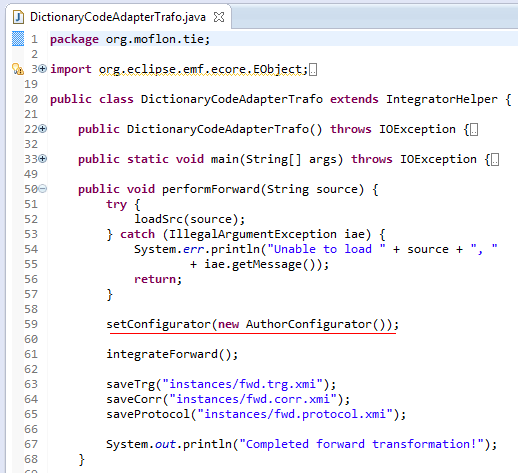
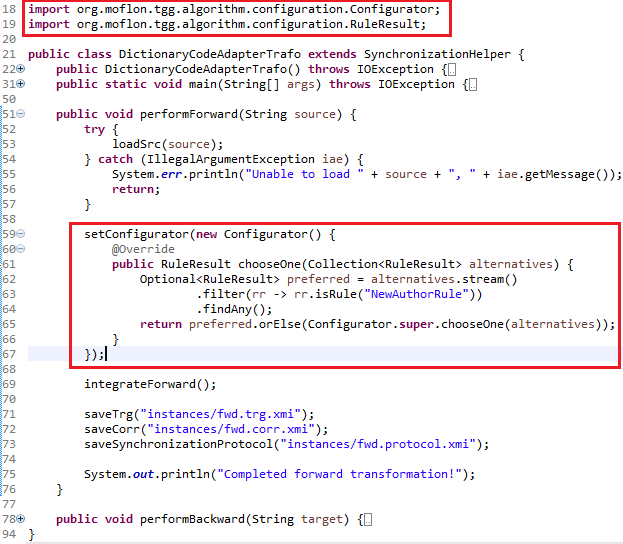
updated part 5

Changed region(s): [[0.0, 0.0, 1.0, 1.0]]

diff --git a/Handbook/org.moflon.doc.handbook.05_modelToTextTransformations/3_treeToModel/treeToModelClose.tex b/Handbook/org.moflon.doc.handbook.05_modelToTextTransformations/3_treeToModel/treeToModelClose.tex
@@ -5,7 +5,7 @@
 
 \begin{itemize}
 
-\item[$\blacktriangleright$] If your project's build succeeded, run the transformation file again and examine the successful forward output, 
+\item[$\blacktriangleright$] If your project's build succeeded, run the transformation\footnote{If you haven't already, read Part IV, Section 6 for details on to run a transformation} again and examine the successful forward output, 
 \texttt{fwd.trg.xmi}, a little closer (Fig.~\ref{eclipse:generatedFwdTrsfm}).
 
 \vspace{0.5cm}
@@ -16,34 +16,20 @@
   \caption{\texttt{Dictionary} result of the forward transformation}
   \label{eclipse:generatedFwdTrsfm}
 \end{center}
-\end{figure}
+\end{figure} 
 
 \vspace{0.5cm}
 
-\item[$\blacktriangleright$] Your output may or may not resemble ours. In fact, there's a 50/50 chance that some of the \texttt{author} nodes are ever created!
-Let's run the integrator on \texttt{fwd.corr.xmi} to find out why.\footnote{If you haven't already, read Part IV, Section 6 for details on how the
-integrator can help you visualise and debug a transformation}
+\item[$\blacktriangleright$] Your output may or may not resemble ours. In fact, there's a 50/50 chance that either a single or two \texttt{contact@pons.de} authors are created!
+At run-time, the transformation has a choice between two rules to apply to a matched \texttt{authorNode}. 
+The resulting choice is entirely random, meaning that your output is likely to be different each time you run the transformation. 
+For a deterministic transformation, you would need to force a preferred decision. 
 
-\vspace{0.5cm}
-
-\item[$\blacktriangleright$] Proceed through the transformation until you reach the first match to an author node (Fig.~\ref{eclipse:fwdIntegrator}). Keep an
-eye on the small window below -- it states that there are two possible rules that apply to the match!
-
-\begin{figure}[htbp]
-\begin{center}
-  \includegraphics[width=0.8\textwidth]{eclipse_integratorAuthorChoice}
-  \caption{The transformation is able to find two possible rules}
-  \label{eclipse:fwdIntegrator}
-\end{center}
-\end{figure}
-
-% \clearpage
-\vspace{0.5cm}
-
-\item[$\blacktriangleright$] At run-time, the transformation is presented with a choice between two rules to apply to the matched \texttt{authorNode}. The
-resulting choice is entirely random, meaning that your output is likely to be different each time you run the transformation. For a deterministic
-transformation, you therefore need to force a preferred decision. There are two ways to do this: (1) at run-time, where users will be able to decide for
-themselves what they would prefer to use, or (2) at design-time, where you make the decision a part of the TGG.
+\noindent There are two ways to do this: 
+\begin{enumerate}
+\item At run-time, allowing users to decide for themselves what they would prefer to use, or 
+\item At design-time, making the decision a part of the TGG specification.
+\end{enumerate}
 
 \vfill
 
@@ -51,40 +37,27 @@ themselves what they would prefer to use, or (2) at design-time, where you make 
 
 \subsubsection{Option 1: Run-time decision}
 
-The advantage with this option is that you give users the choice of what they prefer. Some users don't mind having multiple authors, while others might prefer a
-minimalist design. They can easily change their preference possibly on a case-by-case basis, by implementing a TGG rule configurator.
+The advantage with this option is that you give users the choice of what they prefer. 
+Some users don't mind having multiple authors, while others might prefer a minimalist design. 
+They can easily change their preference possibly on a case-by-case basis, by implementing a TGG rule \emph{configurator}.
 
 \begin{itemize}
 
-\item[$\blacktriangleright$] Navigate to ``DictionaryCodeAdapter/src/org.moflon.tie.'' Right-click this package and create a new java class named
-\texttt{Author\-Config\-ur\-at\-or}, then complete the override as described in Fig.~\ref{eclipse:authorConfig}. Be careful not to make any mistakes --
-Eclipse's auto-completion can help you here.
-
-\begin{figure}[htbp]
-  \includegraphics[width=1.1\textwidth]{eclipse_authorConfiguratorClass}
-  \caption{Setting a preference for \texttt{NewAuthorRule}}
-  \label{eclipse:authorConfig}
-\end{figure}
-
-\item[$\blacktriangleright$] As you can see on Line 21, this simple configurator prefers to create a new author every time there is a choice. Users can
-edit this value to ``ExistingAuthorRule'' to avoid redundant authors.
-
-\item[$\blacktriangleright$] You still need to set the configurator to be used for the transformation. This decision will only arise in the forward direction,
-so declare it once in \texttt{Dict\-ion\-ar\-y\-Code\-Ad\-ap\-ter\-Traf\-o/\-per\-form\-For\-ward} as depicted in Fig.~\ref{eclipse:editTGGMain} (on Line 59).
-
-\newpage
-
-\vspace*{0.5cm}
+\item[$\blacktriangleright$] Implement and set the configurator to be used for the transformation as depicted in Fig.~\ref{eclipse:editTGGMain}.
+Note how the possible alternatives are filtered using an \texttt{isRule} predicate to compare the name of each alternative with the preferred rule \texttt{NewAuthorRule} in this case.
+As this degree of freedom concerning the creation or possible reuse of authors only arises in the forward direction, we do not need a similar configurator for the backward transformation.
 
 \begin{figure}[htbp]
 \begin{center}
-  \includegraphics[width=0.8\textwidth]{eclipse_authorConfiguratorTGGMain}
+  \includegraphics[width=0.9\textwidth]{eclipse_authorConfiguratorTGGMain}
   \caption{Setting the configurator to control the run-time decision}
   \label{eclipse:editTGGMain}
 \end{center}
 \end{figure}
 
 \item[$\blacktriangleright$] Save and run the transformation a few times, using the integrator to confirm your preference is enforced each time.
+You should now \emph{always} get two \texttt{contact@pons.de} authors using this configurator.
+Try to change your preference and see the effect!
 
 \end{itemize}
 
@@ -97,10 +70,6 @@ preference can be enforced using a NAC which checks to see if there is already a
 
 \item[$\blacktriangleright$] Open and update either \texttt{NewAuthorRule} (visual) as shown in Fig.~\ref{ea:existingAuthorNAC} or edit the target domain in 
 Eclipse (textual) as depicted in Fig.~\ref{eclipse:existingAuthorNAC}.
-
-\newpage
-
-\vspace*{0.5cm}
 
 \begin{figure}[htbp]
 \begin{center}

diff --git a/Handbook/org.moflon.doc.handbook.05_modelToTextTransformations/5_treeToText/treeToTextSrc.tex b/Handbook/org.moflon.doc.handbook.05_modelToTextTransformations/5_treeToText/treeToTextSrc.tex
@@ -23,7 +23,7 @@ depicted in Fig.~\ref{eclipse:treeGrammar}.
 \vspace{0.5cm}
 
 \item[$\blacktriangleright$] Next, open \texttt{Dict\-ion\-ary\-Un\-pars\-er\-Ad\-ap\-ter.java} (Fig~\ref{eclipse:unparserCommented}). You'll notice that this
-file contains a (commented) \texttt{StringTemplateGroup} meth\-od for retrieving a group of templates and needs to be implemented. The comments explain how to
+file contains a (commented out) \texttt{StringTemplateGroup} meth\-od for retrieving a group of templates and needs to be implemented. The comments explain how to
 use either a folder containing different template files, or a single file containing all templates. The latter is better for numerous small templates, while the
 former makes sense when the templates contain a lot of static text.
 
@@ -38,7 +38,7 @@ the line throwing an \texttt{Un\-sup\-port\-ed\-Op\-er\-at\-ion\-Ex\-cep\-tion}.
 
 \begin{figure}[htpb]
 \begin{center}
-  \includegraphics[width=0.8\textwidth]{eclipse_dictionaryTreeGrammar}
+  \includegraphics[width=0.83\textwidth]{eclipse_dictionaryTreeGrammar}
   \caption{Tree grammar for the unparser}
   \label{eclipse:treeGrammar}
 \end{center}
@@ -64,7 +64,7 @@ Fig.~\ref{eclipse:dictionaryTemplate}.
 
 \begin{figure}[htpb]
 \begin{center}
-  \includegraphics[width=0.5\textwidth]{eclipse_dictionaryTemplate}
+  \includegraphics[width=0.6\textwidth]{eclipse_dictionaryTemplate}
   \caption{The \texttt{dictionary} template}
   \label{eclipse:dictionaryTemplate}
 \end{center}
@@ -74,13 +74,16 @@ Fig.~\ref{eclipse:dictionaryTemplate}.
 transformation's input file.
 
 \item[$\blacktriangleright$] Save and run your transformation again -- there should no longer be an error message in the console. Inspect and compare your input
-and output folders and their containing files (Fig.~\ref{eclipse:unparseResult}). Are they the same?
+and output folders and their containing files (Fig.~\ref{eclipse:unparseResult}). 
+Are they the same?  As we abstracted from some aspects such as sorting all entries in the transformation, the generated files are probably not absolutely identical.
+If this is required (we assume for the example that it is not) then the generated tree can either be \emph{normalized} as required before generating text, or the additional aspect of order can be modelled explicitly in the transformation (using indices in the tree and \texttt{next} edges in the model).  
 
-\vspace{0.5cm}
+
+\clearpage
 
 \begin{figure}[htpb]
 \begin{center}
-  \includegraphics[width=0.4\textwidth]{eclipse_finalInstancesHierarchy}
+  \includegraphics[width=0.5\textwidth]{eclipse_finalInstancesHierarchy}
   \caption{The final input and output filesystems}
   \label{eclipse:unparseResult}
 \end{center}

diff --git a/Handbook/org.moflon.doc.handbook.05_modelToTextTransformations/3_treeToModel/vis_toModelSrc.tex b/Handbook/org.moflon.doc.handbook.05_modelToTextTransformations/3_treeToModel/vis_toModelSrc.tex
@@ -120,8 +120,7 @@ lost, guaranteeing their correct positions in the tree when transforming back.
 
 The final constraint however, is one we haven't used before. If you re-examine your source \texttt{tree.xmi} model, you'll notice that every entry has a
 different \texttt{index} value. This prevented us from setting an attribute constraint on \texttt{entryNode} but, as long as its index wasn't 0 indicating a
-\texttt{titleNode} (as constrained in the previous \texttt{NodeToDictionaryRule}), it didn't matter. Unfortunately, this missing information means any new
-\texttt{entryNode}s created in the backward transformation have a default 0 index value, and \emph{could} be mistaken by the rule. By using
+\texttt{titleNode} (as constrained in the previous \texttt{Node\-To\-Dictionary\-Rule}), it didn't matter. Unfortunately, this missing information means any new \texttt{entryNode}s created in the backward transformation have a default 0 index value, and \emph{could} be mistaken by the rule. By using
 \texttt{setDefaultNumber}, we have declared that any created default \texttt{index} attributes must be set to 2.
 
 \subsubsection{AuthorRule} % ---------------------------------
@@ -193,7 +192,7 @@ already exist, (i.e., be `black').
 
 \subsubsection{ExistingAuthorRule} % ---------------------------------
 
-\item[$\blacktriangleright$] In \texttt{AuthorRule}'s diagram, select \texttt{authorNode} and \texttt{library}, and press \texttt{Derive}. Enter
+\item[$\blacktriangleright$] In \texttt{AuthorRule}'s diagram, select \texttt{author} and \texttt{library}, and press \texttt{Derive}. Enter
 \texttt{ExistingAuthorRule} as the rule's name but given that we want to refine the selected elements, not use them as context elements,
 be sure to select the \texttt{exact copy} option (Fig.~\ref{ea:deriveRefinement}).
 
@@ -234,7 +233,7 @@ elements from the basis rule as links so they're represented in the diagram. Fig
 
 \subsubsection{NewAuthorRule} % ---------------------------------
 
-\item[$\blacktriangleright$] Return to \texttt{AuthorRule} and derive another copy of \texttt{authorNode} and \texttt{library} into a rule called
+\item[$\blacktriangleright$] Return to \texttt{AuthorRule} and derive this time a copy of \texttt{authorNode} and \texttt{library} into a rule called
 \texttt{NewAuthorRule}. We'll explain why further in the next section, but for now just leave it as it is, and don't change anything. As we have defined
 \texttt{AuthorRule} as abstract, we need this concrete rule to handle new authors. The diagram should come to resemble Fig.~\ref{ea:NewAuthorRule}.
 

diff --git a/Handbook/org.moflon.doc.handbook.05_modelToTextTransformations/1_settingWorkspace/settingWorkspaceSrc.tex b/Handbook/org.moflon.doc.handbook.05_modelToTextTransformations/1_settingWorkspace/settingWorkspaceSrc.tex
@@ -10,8 +10,8 @@ documented and supported, and allows for a pragmatic and elegant fallback to Jav
 done.
 
 To set up your workspace for the model-to-text transformation, you have two options: (1) Import a cheat package with everything already
-prepared (useful if you're just joining us), or (2) if you've worked through the previous part, continue with your existing
-workspace. Both options will work, but note that all of our screenshots from now on assume that you chose Option (1), so don't let that irritate you.
+prepared (useful if you're just joining us), or (2) if you've worked through the previous part, continue with your existing workspace. 
+Both options should work, but we have only tested and updated all screenshots for Option (1) and thus highly recommend this.
 
 As some of you are just reading this handbook without actually getting your hands dirty with an implementation (beware: no pain, no gain!), we have included a
 screenshot of the dictionary metamodel that you get with both options in our visual (Fig.~\ref{ea:dictLang}) and textual (Fig.~\ref{eclipse:dictLangMetamodel})

diff --git a/Handbook/org.moflon.doc.handbook.05_modelToTextTransformations/2_textToTree/textToTreeSrc.tex b/Handbook/org.moflon.doc.handbook.05_modelToTextTransformations/2_textToTree/textToTreeSrc.tex
@@ -260,11 +260,6 @@ While the parser is the only implemented piece of our transformation, TGGMain st
 the correspondence model \texttt{fwd.corr.xmi} (paired with \texttt{fwd.protocol.xmi}), and the (currently empty) \texttt{Dictionary} target result,
 \texttt{fwd.trg.xmi}.
 
-\clearpage
-
-%The TGG also executed in the inverse direction; \texttt{tree.xmi\_FWD.xmi} was used in the backwards direction, producing \texttt{corrBWD.xmi} (with
-%\texttt{proto\-col\-\_BWD\-.xmi}) and \texttt{tree.xmi\_FWD.xmi\_BWD.xmi}. 
-
 \begin{itemize}
 
 \item[$\blacktriangleright$] Open \texttt{fwd.src.xmi} and compare the contents to Fig.~\ref{eclipse:treeResult}. Reflect on the directory-type structure of the

diff --git a/Handbook/org.moflon.doc.handbook.05_modelToTextTransformations/src/modelToTextTransforms_mainFile.tex b/Handbook/org.moflon.doc.handbook.05_modelToTextTransformations/src/modelToTextTransforms_mainFile.tex
@@ -18,7 +18,7 @@
 \input{../../org.moflon.doc.handbook.00_common/src/titlepage}
 
 \begin{document}
-
+ 
 \frontmatter 
 \noHeader
 

diff --git a/Handbook/org.moflon.doc.handbook.05_modelToTextTransformations/src/modelToTextTransforms_conclusion.tex b/Handbook/org.moflon.doc.handbook.05_modelToTextTransformations/src/modelToTextTransforms_conclusion.tex
@@ -1,4 +1,3 @@
-\newpage
 \section{Conclusion and next steps}
 \genHeader
 
